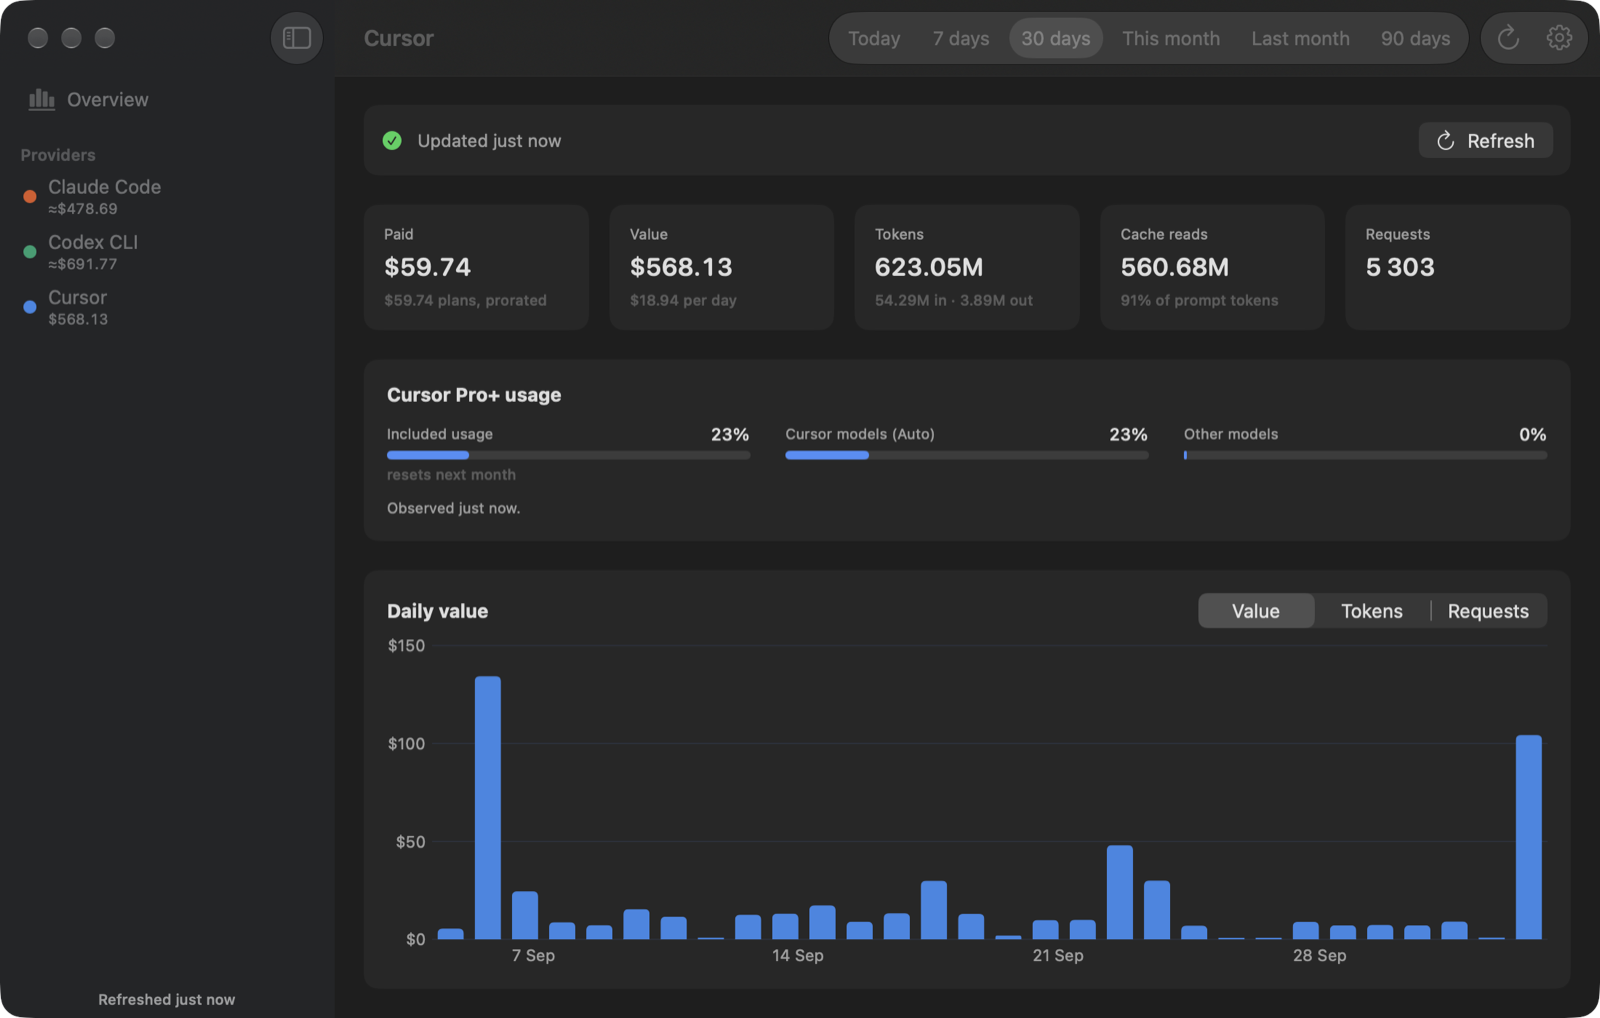
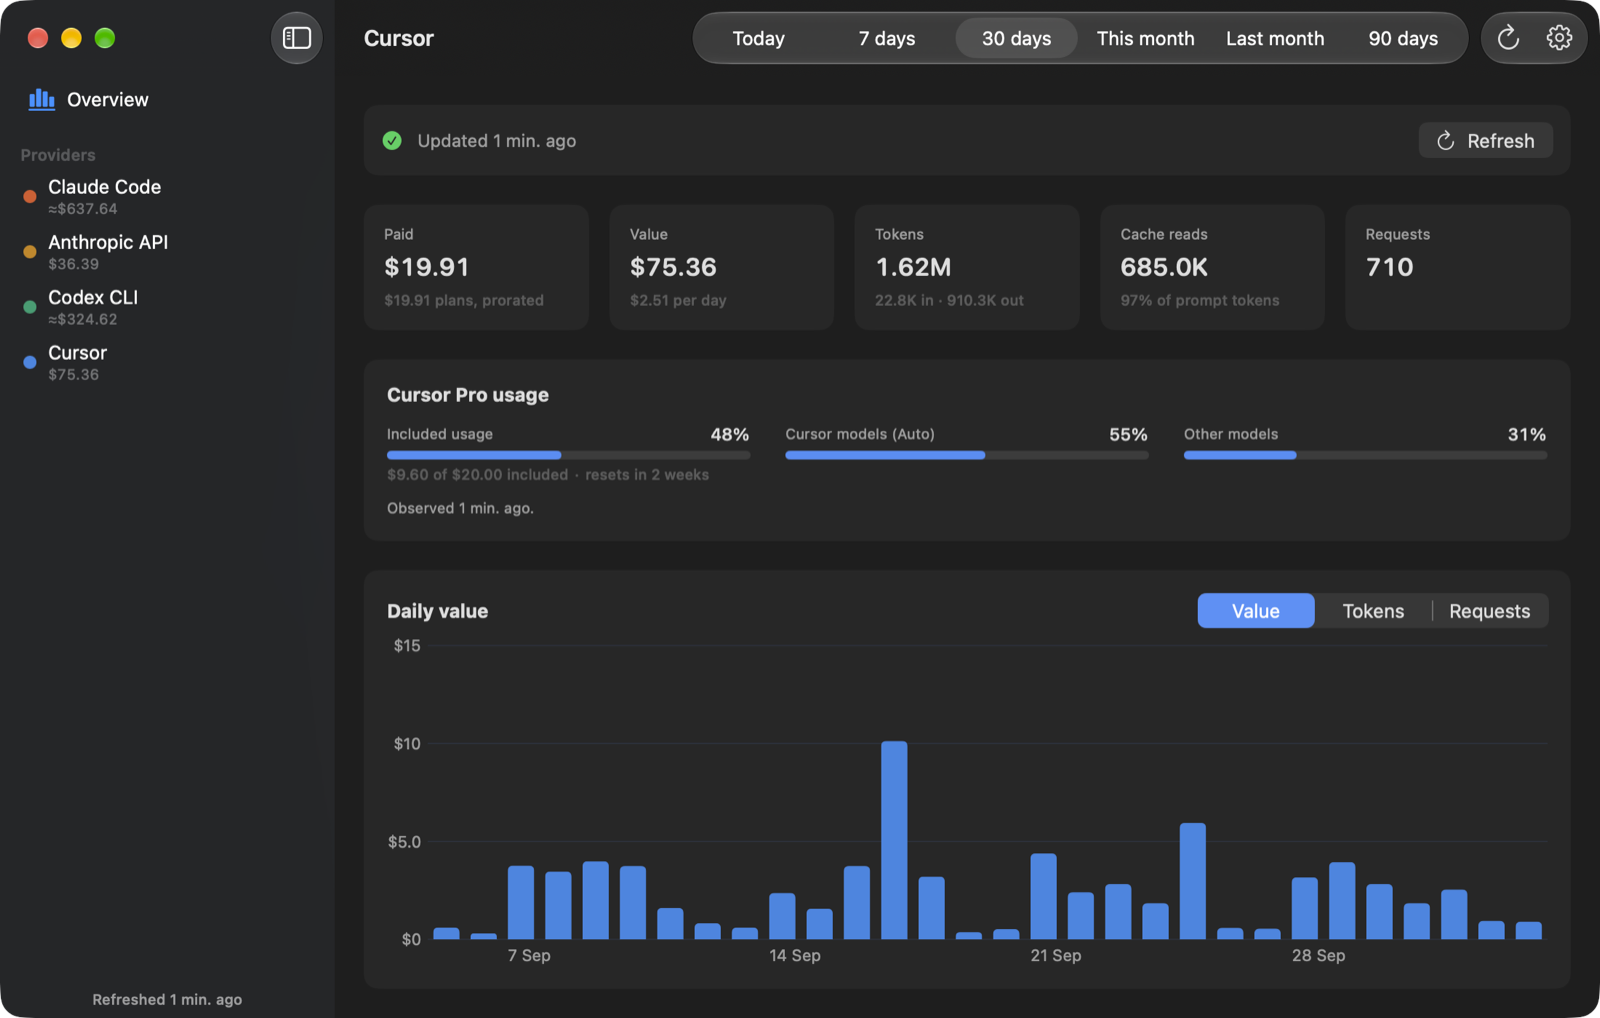
Demo data mode for screenshots; secrets helper can export identities itself
- `-demoData YES` runs the app on deterministic synthetic usage, plan
  statuses and billing plans without reading, fetching or persisting
  anything. README screenshots retaken from it.
- Range picker sizes to its content so the toolbar no longer truncates.
- scripts/setup-release-secrets.sh exports the signing identities from
  the login keychain when no .p12 is given; README documents the Xcode
  and Keychain Access routes to a .p12.

diff --git a/Overhead/App/DemoData.swift b/Overhead/App/DemoData.swift
@@ -1,0 +1,104 @@
+import Foundation
+import OverheadCore
+
+/// Synthetic data for screenshots and demos. Enabled with the launch argument
+/// `-demoData YES`; in that mode nothing is read from disk, fetched, or persisted.
+enum DemoData {
+    static var isEnabled: Bool { UserDefaults.standard.bool(forKey: "demoData") }
+
+    static let providers: [ProviderID] = [.claudeCode, .codexCLI, .cursor, .anthropicAPI]
+
+    /// Thirty days of plausible usage with a weekly rhythm and a couple of busy days.
+    static func records(now: Date = Date(), calendar: Calendar = .current) -> [UsageRecord] {
+        var rng = SeededGenerator(seed: 20261004)
+        let today = calendar.startOfDay(for: now)
+        var out: [UsageRecord] = []
+
+        struct Model { let provider: ProviderID; let id: String; let share: Double; let inPerReq: Int; let outPerReq: Int; let cacheRatio: Double; let centsPerReq: Double? }
+        // Per-request shapes modelled on real agentic-coding traffic: small fresh input, large
+        // cached context re-read every turn, and (for Cursor) the cents the plan deducts.
+        let models: [Model] = [
+            Model(provider: .claudeCode,   id: "claude-opus-5-5",   share: 0.6,  inPerReq: 110,  outPerReq: 2400, cacheRatio: 2600, centsPerReq: nil),
+            Model(provider: .claudeCode,   id: "claude-sonnet-5-5", share: 0.4,  inPerReq: 90,   outPerReq: 1600, cacheRatio: 1900, centsPerReq: nil),
+            Model(provider: .codexCLI,     id: "gpt-6-astra",       share: 0.7,  inPerReq: 4200, outPerReq: 320,  cacheRatio: 28,   centsPerReq: nil),
+            Model(provider: .codexCLI,     id: "gpt-5.6-sol",       share: 0.3,  inPerReq: 3000, outPerReq: 280,  cacheRatio: 30,   centsPerReq: nil),
+            Model(provider: .cursor,       id: "claude-4.6-opus-high-thinking", share: 0.35, inPerReq: 40, outPerReq: 2200, cacheRatio: 35, centsPerReq: 22),
+            Model(provider: .cursor,       id: "grok-4.7",          share: 0.35, inPerReq: 30,   outPerReq: 900,  cacheRatio: 30,   centsPerReq: 6),
+            Model(provider: .cursor,       id: "composer-2.5-fast", share: 0.3,  inPerReq: 25,   outPerReq: 600,  cacheRatio: 20,   centsPerReq: 2),
+            Model(provider: .anthropicAPI, id: "claude-sonnet-5-5", share: 1.0,  inPerReq: 3200, outPerReq: 700,  cacheRatio: 4,    centsPerReq: nil),
+        ]
+        let dailyRequests: [ProviderID: Int] = [.claudeCode: 240, .codexCLI: 90, .cursor: 30, .anthropicAPI: 90]
+
+        for offset in stride(from: 29, through: 0, by: -1) {
+            let day = calendar.date(byAdding: .day, value: -offset, to: today)!
+            let weekday = calendar.component(.weekday, from: day)
+            let weekend = weekday == 1 || weekday == 7
+            let dayFactor = (weekend ? 0.25 : 1.0) * (0.55 + rng.nextDouble() * 0.9) * (offset == 9 || offset == 17 ? 2.4 : 1)
+            for m in models {
+                let reqs = max(0, Int(Double(dailyRequests[m.provider]!) * m.share * dayFactor * (0.8 + rng.nextDouble() * 0.4)))
+                guard reqs > 0 else { continue }
+                let input = reqs * m.inPerReq
+                let cacheRead = Int(Double(input) * m.cacheRatio)
+                let cacheWrite = m.provider == .claudeCode ? Int(Double(cacheRead) * 0.02) : 0
+                let output = reqs * m.outPerReq
+                var rec = UsageRecord(provider: m.provider, day: day, model: m.id,
+                                      inputTokens: input, outputTokens: output,
+                                      cacheWriteTokens: cacheWrite, cacheReadTokens: cacheRead, requests: reqs)
+                if let cents = m.centsPerReq {
+                    rec.cost = .reported(Double(reqs) * cents / 100)
+                } else if m.provider == .anthropicAPI,
+                          let est = PriceTable.estimate(model: m.id, input: input, output: output, cacheRead: cacheRead, cacheWrite: cacheWrite) {
+                    rec.cost = .reported((est * 100).rounded() / 100)
+                } else if let est = PriceTable.estimate(model: m.id, input: input, output: output, cacheRead: cacheRead, cacheWrite: cacheWrite) {
+                    rec.cost = .estimated(est)
+                }
+                out.append(rec)
+            }
+        }
+        return out
+    }
+
+    static func planStatus(for provider: ProviderID, now: Date = Date()) -> PlanStatus? {
+        let cal = Calendar.current
+        switch provider {
+        case .codexCLI:
+            return PlanStatus(planName: "ChatGPT Plus", observedAt: now.addingTimeInterval(-540), windows: [
+                .init(title: "5-hour window", usedPercent: 37, resetsAt: now.addingTimeInterval(2.1 * 3600)),
+                .init(title: "Weekly window", usedPercent: 62, resetsAt: cal.date(byAdding: .day, value: 3, to: now)),
+            ], note: "Codex usage on a ChatGPT plan is included in the subscription; the cost column is what the same tokens would cost on the API.",
+               suggestedPlan: .init(name: "ChatGPT Plus", monthlyFeeUSD: 20, source: "Codex logs"))
+        case .cursor:
+            return PlanStatus(planName: "Cursor Pro", observedAt: now.addingTimeInterval(-60), windows: [
+                .init(title: "Included usage", usedPercent: 48, detail: "$9.60 of $20.00 included", resetsAt: cal.date(byAdding: .day, value: 11, to: now)),
+                .init(title: "Cursor models (Auto)", usedPercent: 55),
+                .init(title: "Other models", usedPercent: 31),
+            ], note: nil, suggestedPlan: .init(name: "Cursor Pro", monthlyFeeUSD: 20, source: "cursor.com account"))
+        case .claudeCode:
+            return PlanStatus(planName: "Claude Max 5x", observedAt: now, windows: [],
+                              suggestedPlan: .init(name: "Claude Max 5x", monthlyFeeUSD: 100, source: "~/.claude.json"))
+        default:
+            return nil
+        }
+    }
+
+    static let billingPlans: [ProviderID: BillingPlan] = [
+        .claudeCode:   BillingPlan(kind: .subscription, monthlyFeeUSD: 100, autoDetected: true, planName: "Claude Max 5x"),
+        .codexCLI:     BillingPlan(kind: .subscription, monthlyFeeUSD: 20,  autoDetected: true, planName: "ChatGPT Plus"),
+        .cursor:       BillingPlan(kind: .subscription, monthlyFeeUSD: 20,  autoDetected: true, planName: "Cursor Pro"),
+        .anthropicAPI: BillingPlan(kind: .payPerUse),
+    ]
+
+    /// Small deterministic generator so demo screenshots are reproducible.
+    struct SeededGenerator {
+        private var state: UInt64
+        init(seed: UInt64) { state = seed &* 0x9E3779B97F4A7C15 }
+        mutating func next() -> UInt64 {
+            state &+= 0x9E3779B97F4A7C15
+            var z = state
+            z = (z ^ (z >> 30)) &* 0xBF58476D1CE4E5B9
+            z = (z ^ (z >> 27)) &* 0x94D049BB133111EB
+            return z ^ (z >> 31)
+        }
+        mutating func nextDouble() -> Double { Double(next() >> 11) / Double(1 << 53) }
+    }
+}

diff --git a/Overhead/App/AppModel.swift b/Overhead/App/AppModel.swift
@@ -15,22 +15,25 @@ enum FetchStatus: Equatable {
 @MainActor
 @Observable
 final class AppModel {
+    /// Synthetic data for screenshots (`-demoData YES`); nothing is read, fetched or saved.
+    let isDemo = DemoData.isEnabled
+
     // MARK: Persisted preferences
     var enabledProviders: Set<ProviderID> {
-        didSet { Prefs.enabled = enabledProviders }
+        didSet { if !isDemo { Prefs.enabled = enabledProviders } }
     }
     var rangePreset: DateRangePreset {
-        didSet { Prefs.rangePreset = rangePreset }
+        didSet { if !isDemo { Prefs.rangePreset = rangePreset } }
     }
     var refreshMinutes: Int {
-        didSet { Prefs.refreshMinutes = refreshMinutes; rescheduleTimer() }
+        didSet { if !isDemo { Prefs.refreshMinutes = refreshMinutes }; rescheduleTimer() }
     }
     var menuBarMetric: MenuBarMetric {
-        didSet { Prefs.menuBarMetric = menuBarMetric }
+        didSet { if !isDemo { Prefs.menuBarMetric = menuBarMetric } }
     }
     /// How each provider is paid for; drives the "Paid vs value" comparison.
     var billingPlans: [ProviderID: BillingPlan] {
-        didSet { Prefs.billingPlans = billingPlans }
+        didSet { if !isDemo { Prefs.billingPlans = billingPlans } }
     }
 
     enum MenuBarMetric: String, CaseIterable, Identifiable {
@@ -50,7 +53,7 @@ final class AppModel {
     private(set) var statusByProvider: [ProviderID: FetchStatus] = [:]
     private(set) var credentials: Credentials = [:]
     var selectedProvider: ProviderID? = nil {
-        didSet { Prefs.selectedProvider = selectedProvider }
+        didSet { if !isDemo { Prefs.selectedProvider = selectedProvider } }
     }
     private(set) var planStatus: [ProviderID: PlanStatus] = [:]
     var lastRefresh: Date? = nil
@@ -62,6 +65,15 @@ final class AppModel {
     private var timer: Timer?
 
     init() {
+        if DemoData.isEnabled {
+            enabledProviders = Set(DemoData.providers)
+            rangePreset = .last30
+            refreshMinutes = 0
+            menuBarMetric = .todayCost
+            billingPlans = DemoData.billingPlans
+            selectedProvider = Prefs.selectedProvider   // honoured from launch arguments, never written
+            return
+        }
         AppIdentity.migrateDefaultsIfNeeded()
         enabledProviders = Prefs.enabled
         rangePreset = Prefs.rangePreset
@@ -75,6 +87,16 @@ final class AppModel {
     // MARK: Lifecycle
 
     func start() async {
+        if isDemo {
+            let all = DemoData.records()
+            for p in DemoData.providers {
+                recordsByProvider[p] = all.filter { $0.provider == p }
+                statusByProvider[p] = .ok(Date().addingTimeInterval(-90))
+                planStatus[p] = DemoData.planStatus(for: p)
+            }
+            lastRefresh = Date().addingTimeInterval(-90)
+            return
+        }
         // Show cached data immediately, then refresh in the background.
         for p in ProviderID.allCases {
             if let snap = await cache.load(p) {
@@ -134,6 +156,7 @@ final class AppModel {
     // MARK: Refresh
 
     func refreshAll(force: Bool) async {
+        guard !isDemo else { lastRefresh = Date(); return }
         let targets = ProviderID.allCases.filter { enabledProviders.contains($0) }
         // One child task per provider so a slow API does not block the local parsers.
         let tasks = targets.map { p in Task { await self.refresh(p, force: force) } }
@@ -142,6 +165,7 @@ final class AppModel {
     }
 
     func refresh(_ id: ProviderID, force: Bool) async {
+        guard !isDemo else { return }
         guard let provider = registry.provider(for: id) else { return }
         guard provider.isConfigured(credentials) else {
             statusByProvider[id] = .notConfigured

diff --git a/Overhead/Views/MainWindow.swift b/Overhead/Views/MainWindow.swift
@@ -26,7 +26,7 @@ struct MainWindow: View {
                     ForEach(DateRangePreset.allCases) { Text($0.title).tag($0) }
                 }
                 .pickerStyle(.segmented)
-                .frame(width: 440)
+                .fixedSize()
 
                 Button {
                     Task { await model.refreshAll(force: true) }

diff --git a/README.md b/README.md
@@ -89,13 +89,15 @@ Then, for each release:
 ./scripts/release.sh 0.1.0 --publish  # same, then creates the GitHub release with gh
 ```
 
-Or let GitHub Actions do it: pushing a tag `v<version>` runs `.github/workflows/release.yml`, which imports the Developer ID certificate from repository secrets, notarizes, and publishes the release. Set the secrets once with `scripts/setup-release-secrets.sh <DeveloperID.p12>` (export the certificate with its private key from Keychain Access first). Then:
+Or let GitHub Actions do it: pushing a tag `v<version>` runs `.github/workflows/release.yml`, which imports the Developer ID certificate from repository secrets, notarizes, and publishes the release. Set the secrets once with `scripts/setup-release-secrets.sh`. Run it without arguments and it exports your signing identities (certificate plus private key) from the login keychain itself; or pass a `.p12` you exported from Xcode → Settings → Accounts → Manage Certificates… → Export Certificate…. Then:
 
 ```bash
 git tag v0.2.0 && git push origin v0.2.0
 ```
 
 The script builds Release with hardened runtime and a secure timestamp, notarizes the app, staples it, wraps it in a DMG with an Applications shortcut, then notarizes and staples the DMG too, and writes a SHA-256 next to it. `--skip-notarize` produces a signed but un-notarized DMG for local testing.
+
+The screenshots above were taken with synthetic data: `open /Applications/Overhead.app --args -demoData YES` runs the app on generated usage without reading, fetching or saving anything.
 
 ### Core package tests and debug CLI
 
